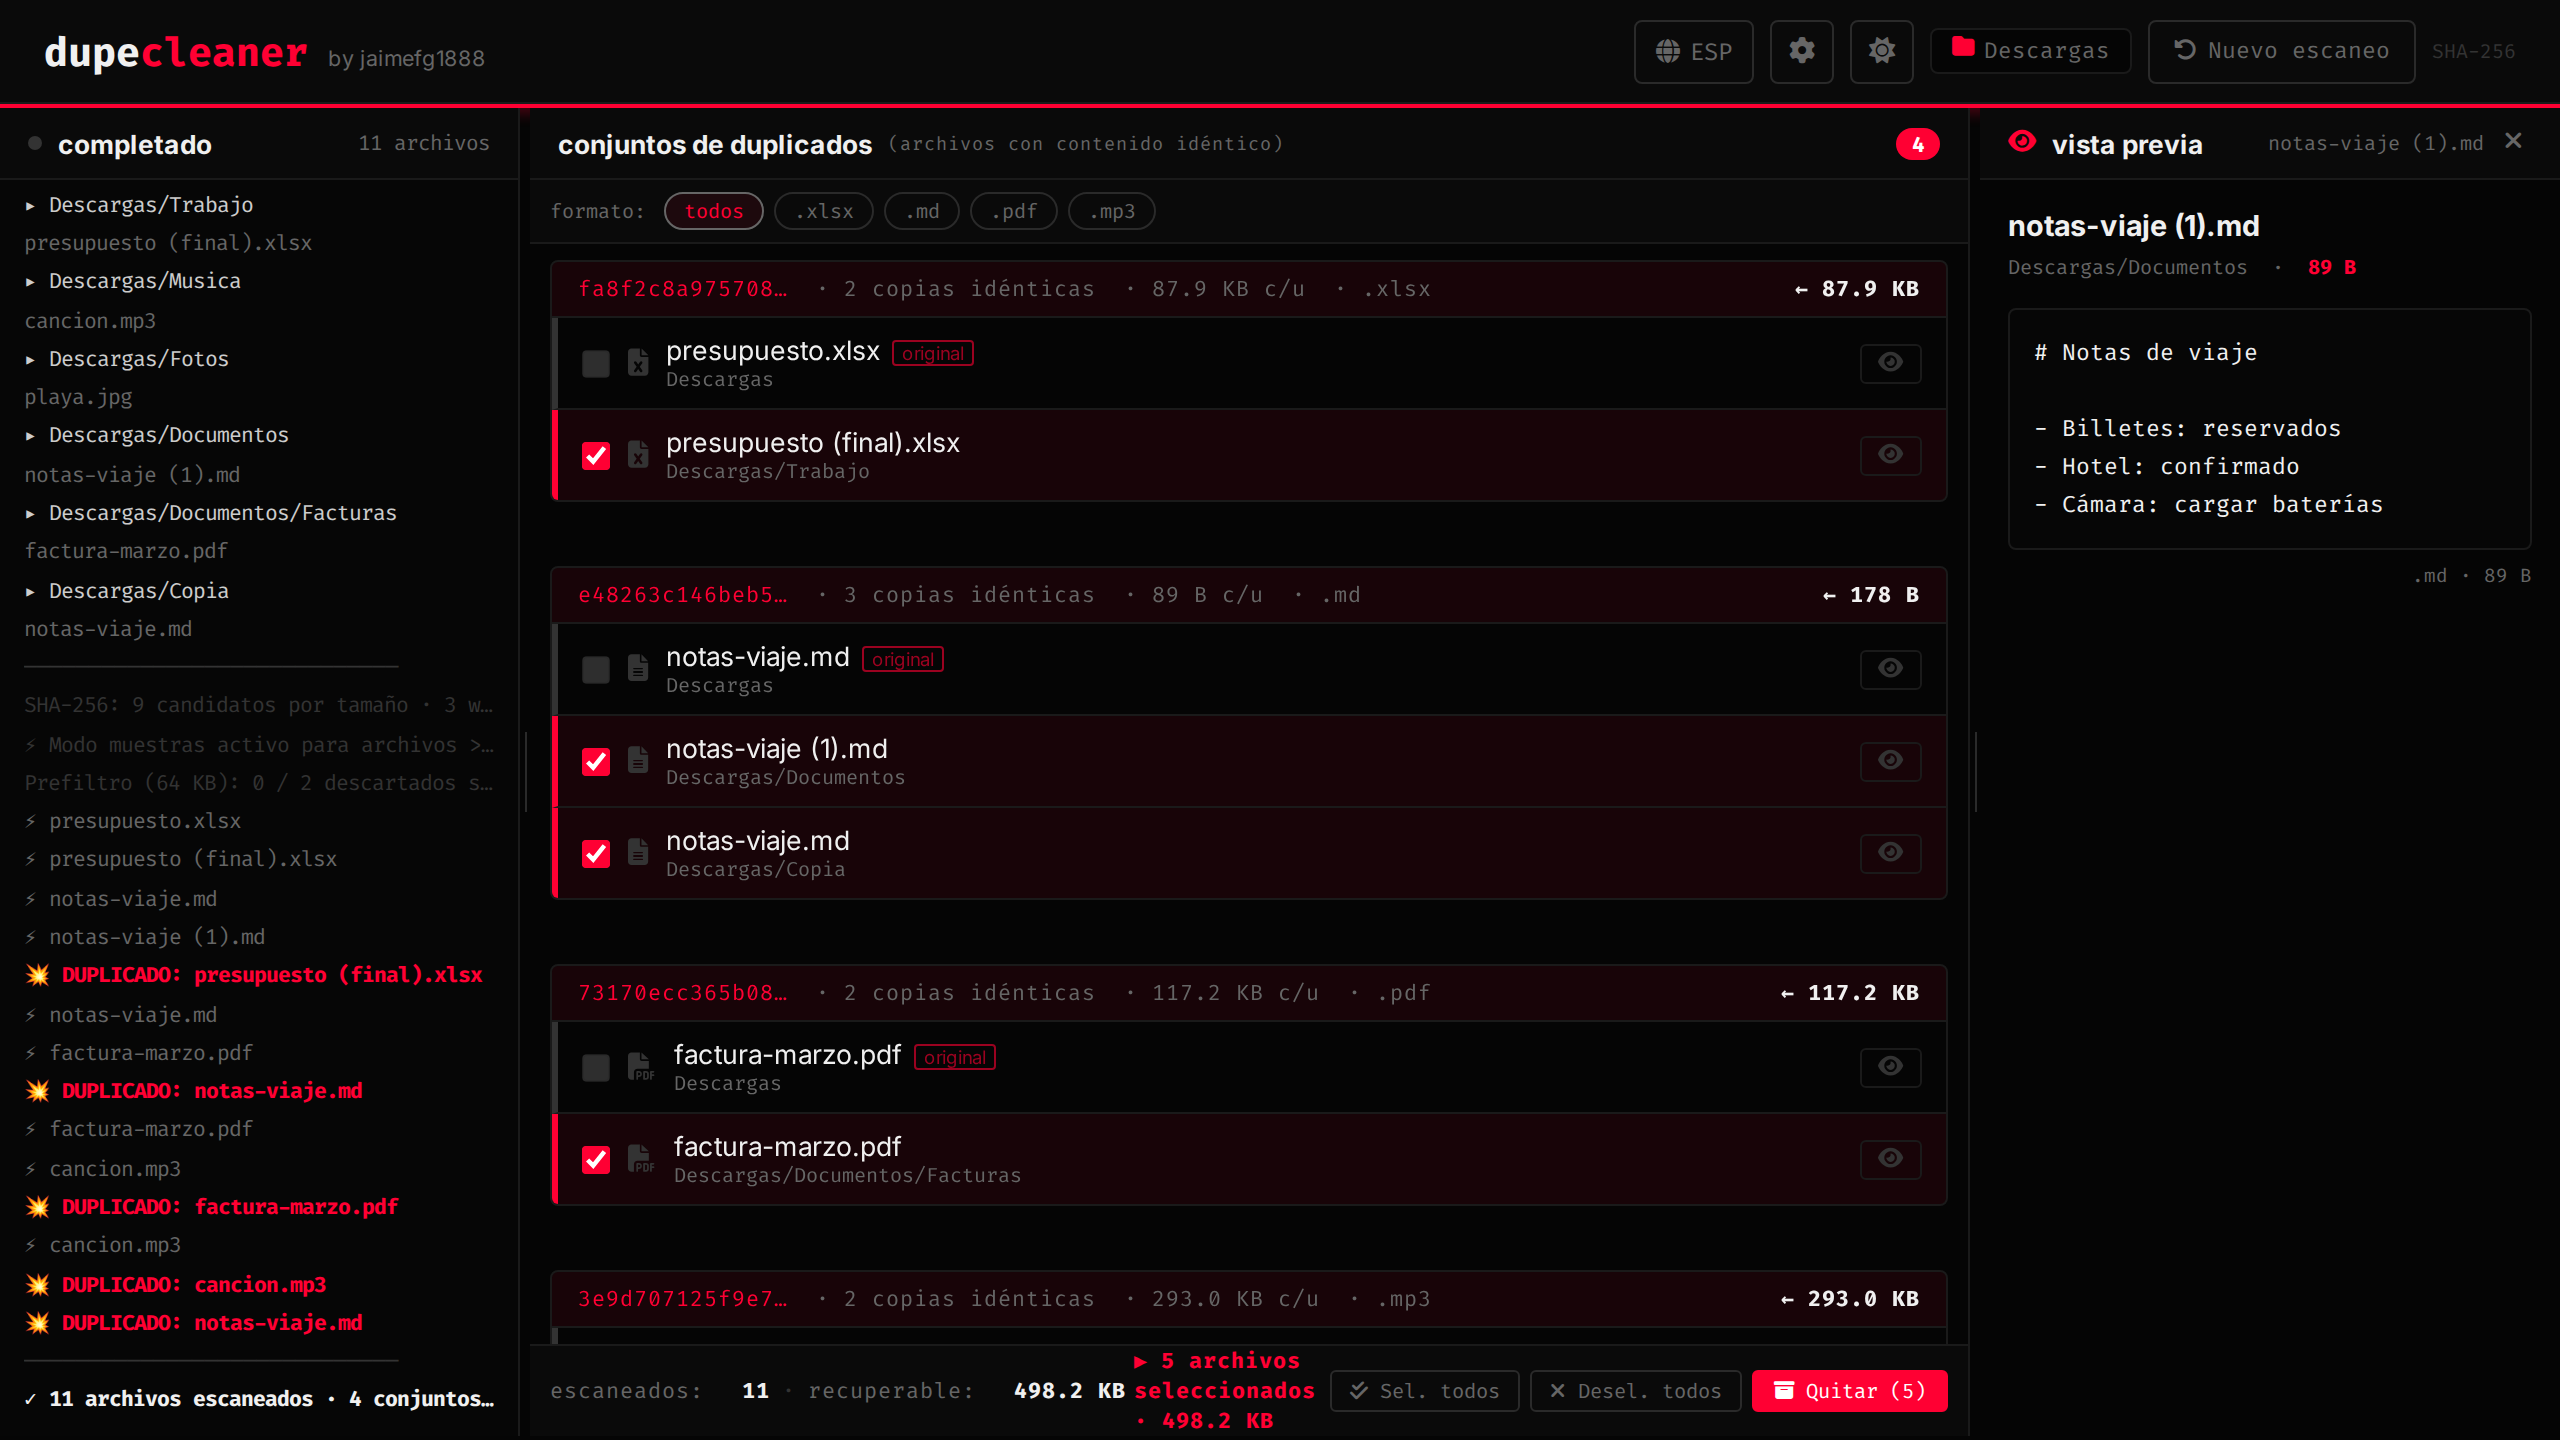
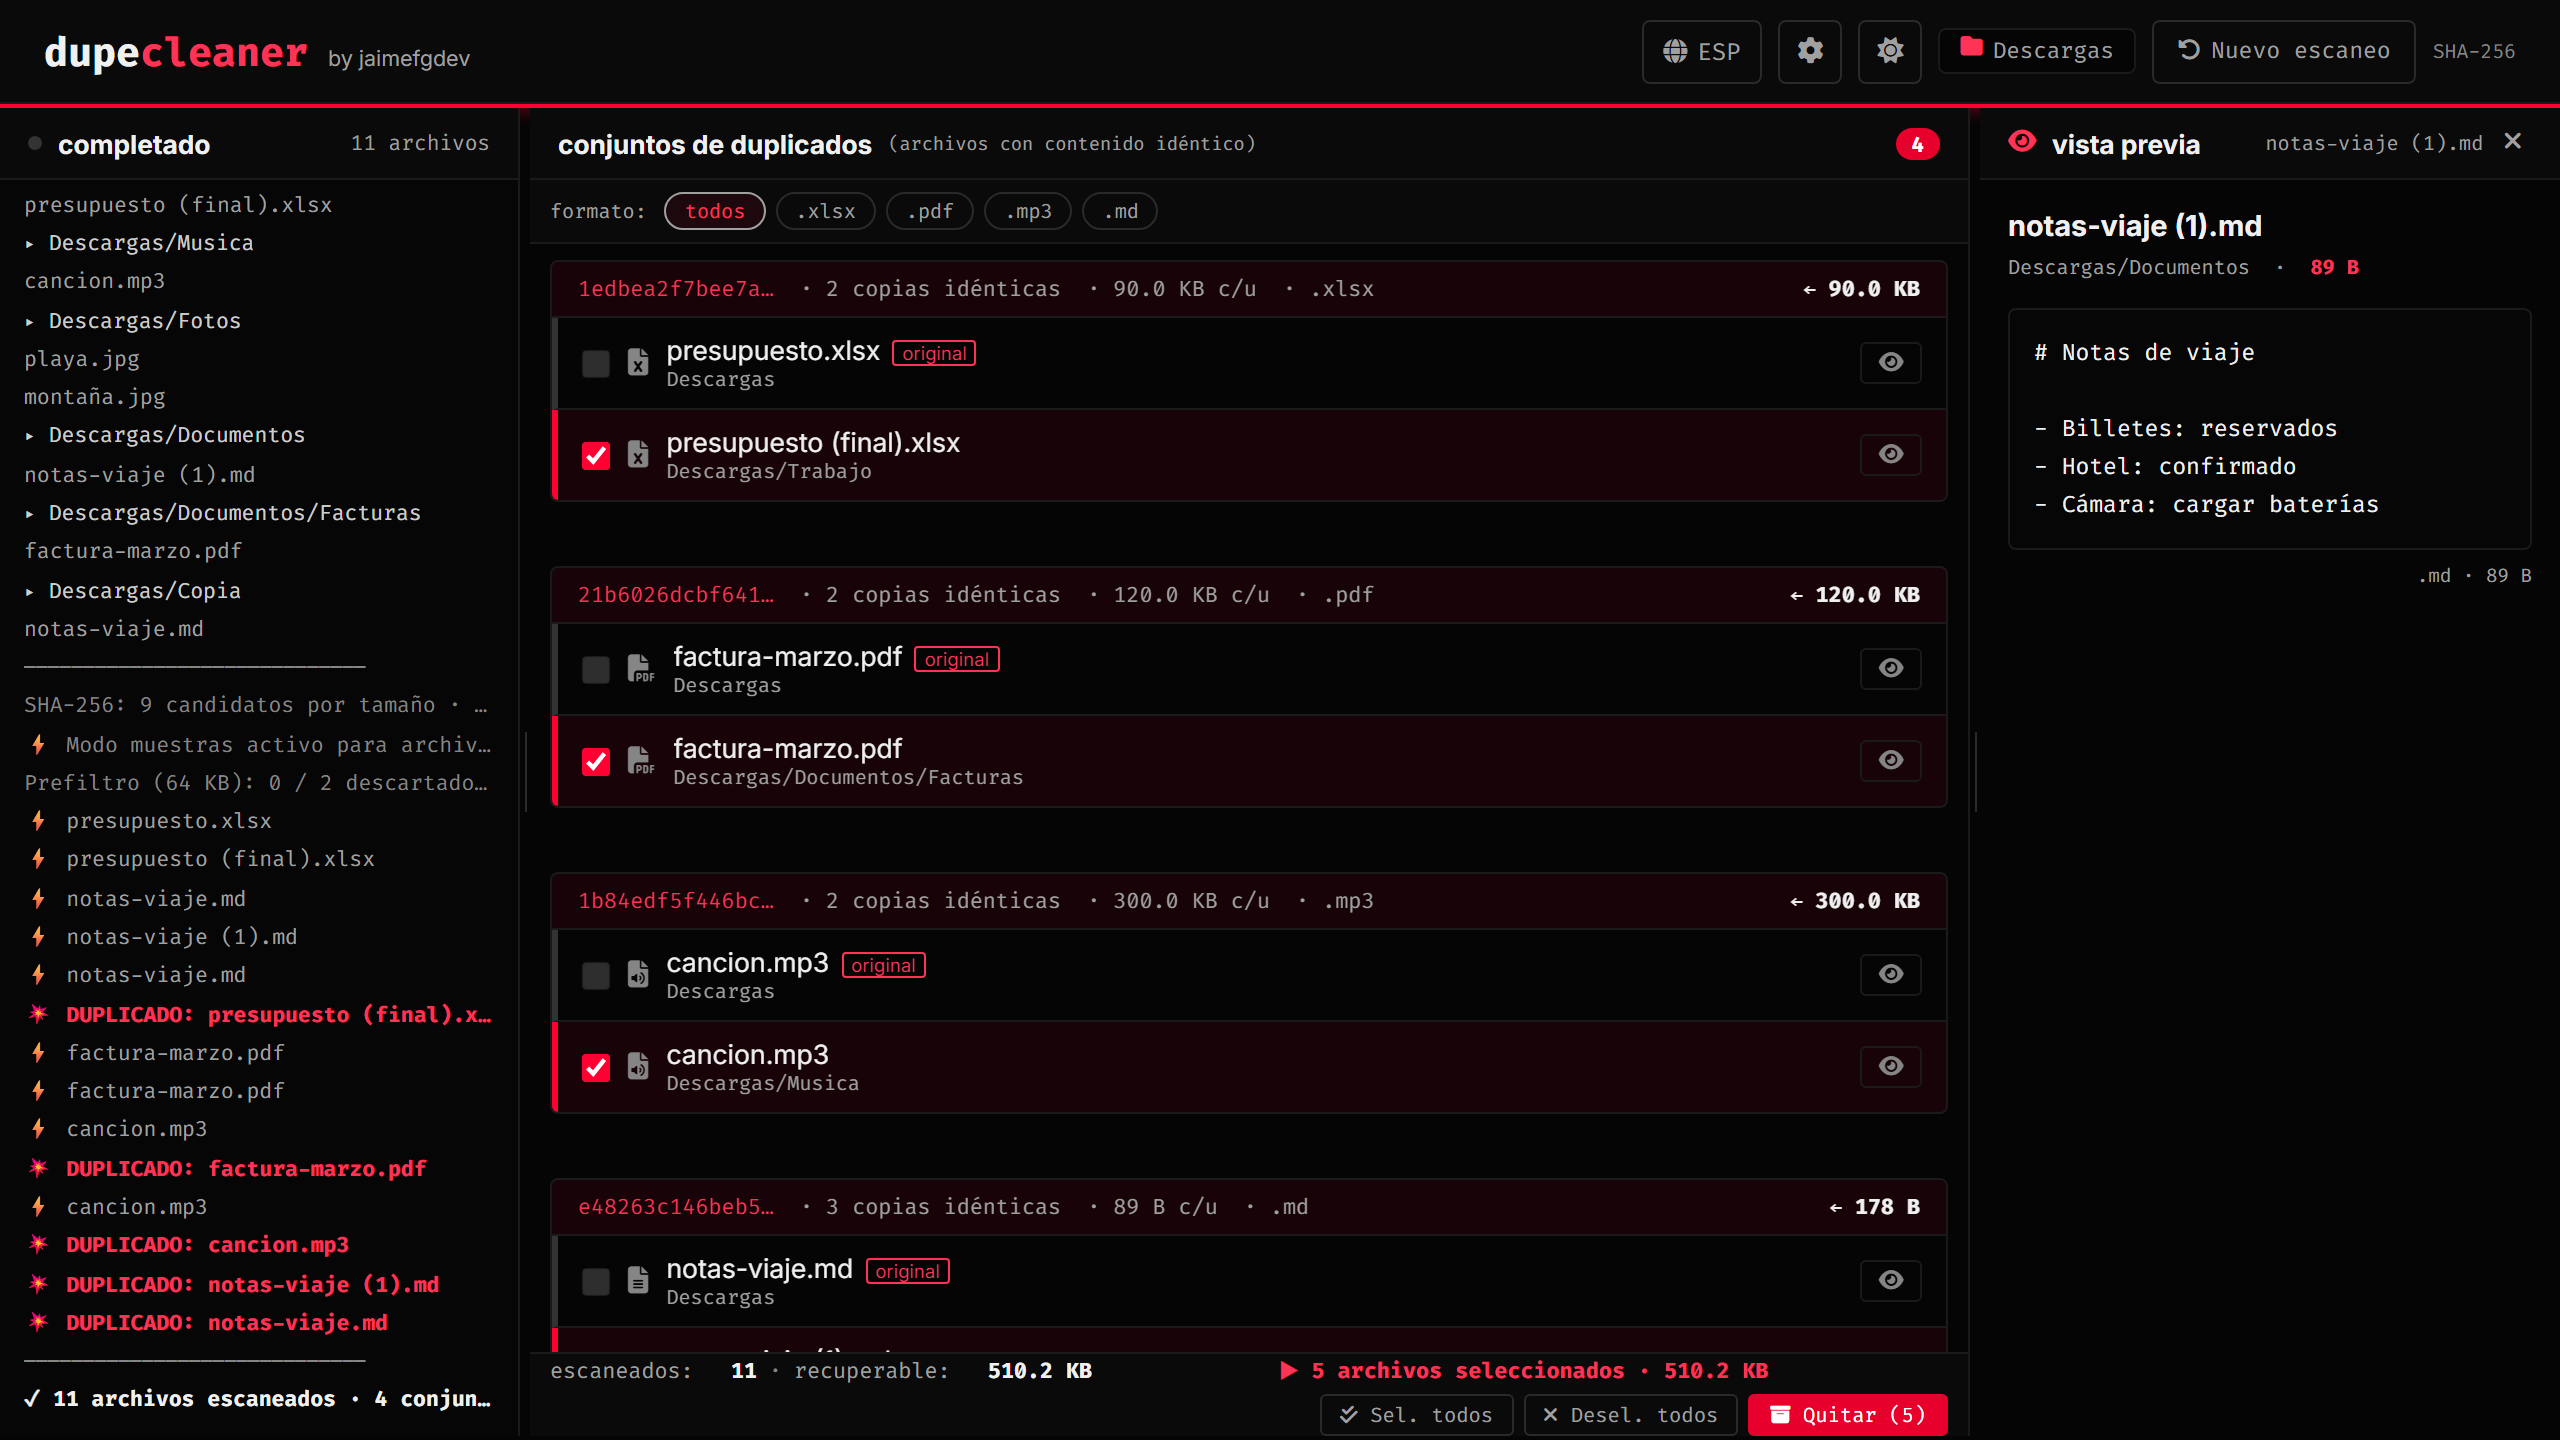
docs: capturas actualizadas y diálogo de cuarentena en el README
- scripts/screenshot.mjs arranca su propio servidor y genera las dos capturas
  con datos de ejemplo en OPFS (tema oscuro, español).
- Nueva captura del diálogo de quitar (cuarentena por defecto) en las secciones
  de seguridad del README, en inglés y español.
- Barra inferior: el texto de selección ya no se parte en varias líneas ni se
  monta sobre los botones cuando falta espacio; los botones pasan a la derecha.

diff --git a/styles.css b/styles.css
@@ -206,11 +206,11 @@
     /* ── STATS BAR ── */
     #stats-bar  { min-height:40px; flex-shrink:0; display:flex; align-items:center; flex-wrap:wrap; gap:4px; padding:0 10px; border-top:1px solid var(--border); background:var(--panel); font-family:'Fira Code',monospace; font-size:.68rem; color:var(--muted); box-shadow:var(--shadow); }
     .sbar-left  { display:flex; align-items:center; gap:6px; }
-    .sbar-center { flex:1; display:flex; align-items:center; justify-content:center; min-width:0; }
-    .sbar-right { display:flex; align-items:center; gap:5px; }
+    .sbar-center { flex:1; display:flex; align-items:center; justify-content:center; min-width:max-content; }
+    .sbar-right { display:flex; align-items:center; gap:5px; margin-left:auto; }
     .sbar-val   { color:var(--white); font-weight:700; }
     .sbar-sep   { color:var(--dim); }
-    #sel-info   { display:none; font-family:'Fira Code',monospace; font-size:.68rem; color:var(--red-text); font-weight:700; }
+    #sel-info   { display:none; white-space:nowrap; font-family:'Fira Code',monospace; font-size:.68rem; color:var(--red-text); font-weight:700; }
     .sbar-btn   { background:transparent; border:1px solid var(--border2); color:var(--muted); padding:3px 9px; border-radius:3px; font-family:'Fira Code',monospace; font-size:.64rem; cursor:pointer; transition:all .18s; white-space:nowrap; }
     .sbar-btn:hover { border-color:var(--white); color:var(--white); }
     #btn-del    { background:var(--red-fill); border:1px solid var(--red-fill); color:#fff; padding:3px 10px; border-radius:3px; font-family:'Fira Code',monospace; font-size:.64rem; cursor:pointer; transition:all .18s; display:none; white-space:nowrap; }

diff --git a/README.md b/README.md
@@ -22,6 +22,8 @@ DupeCleaner removes files, so it is built to never remove the wrong one:
 - **The original is always kept.** The first file of every set (in scan order) cannot be selected, not even by forcing the checkbox.
 - **Fast mode is honest.** Files over 20 MB are compared by samples (start, middle, end) in fast mode; those sets are marked **probable** and are always fully verified before removal.
 
+![The remove dialog: quarantine is the default, permanent deletion is an explicit option](docs/screenshot-quarantine.png)
+
 ### Features
 
 - WebAssembly SHA-256 ([hash-wasm](https://github.com/Daninet/hash-wasm)) in a pool of Web Workers — the UI never freezes
@@ -123,6 +125,8 @@ DupeCleaner quita archivos, así que está hecho para no quitar nunca el que no 
 - **Verificación completa justo antes de tocar nada.** Cada copia y su original se vuelven a leer y se comparan con el SHA-256 **completo**, y su tamaño y fecha no pueden haber cambiado desde el escaneo. Si algo no cuadra, el archivo no se toca y el registro explica por qué.
 - **El original siempre se conserva.** El primer archivo de cada conjunto (en orden de escaneo) no se puede seleccionar, ni forzando la casilla.
 - **El modo rápido no engaña.** En modo rápido, los archivos de más de 20 MB se comparan por muestras (inicio, centro y final); esos conjuntos se marcan como **probables** y siempre se verifican completos antes de quitarlos.
+
+![El diálogo de quitar: la cuarentena es la opción por defecto y el borrado definitivo es una opción explícita](docs/screenshot-quarantine.png)
 
 ### Características
 
